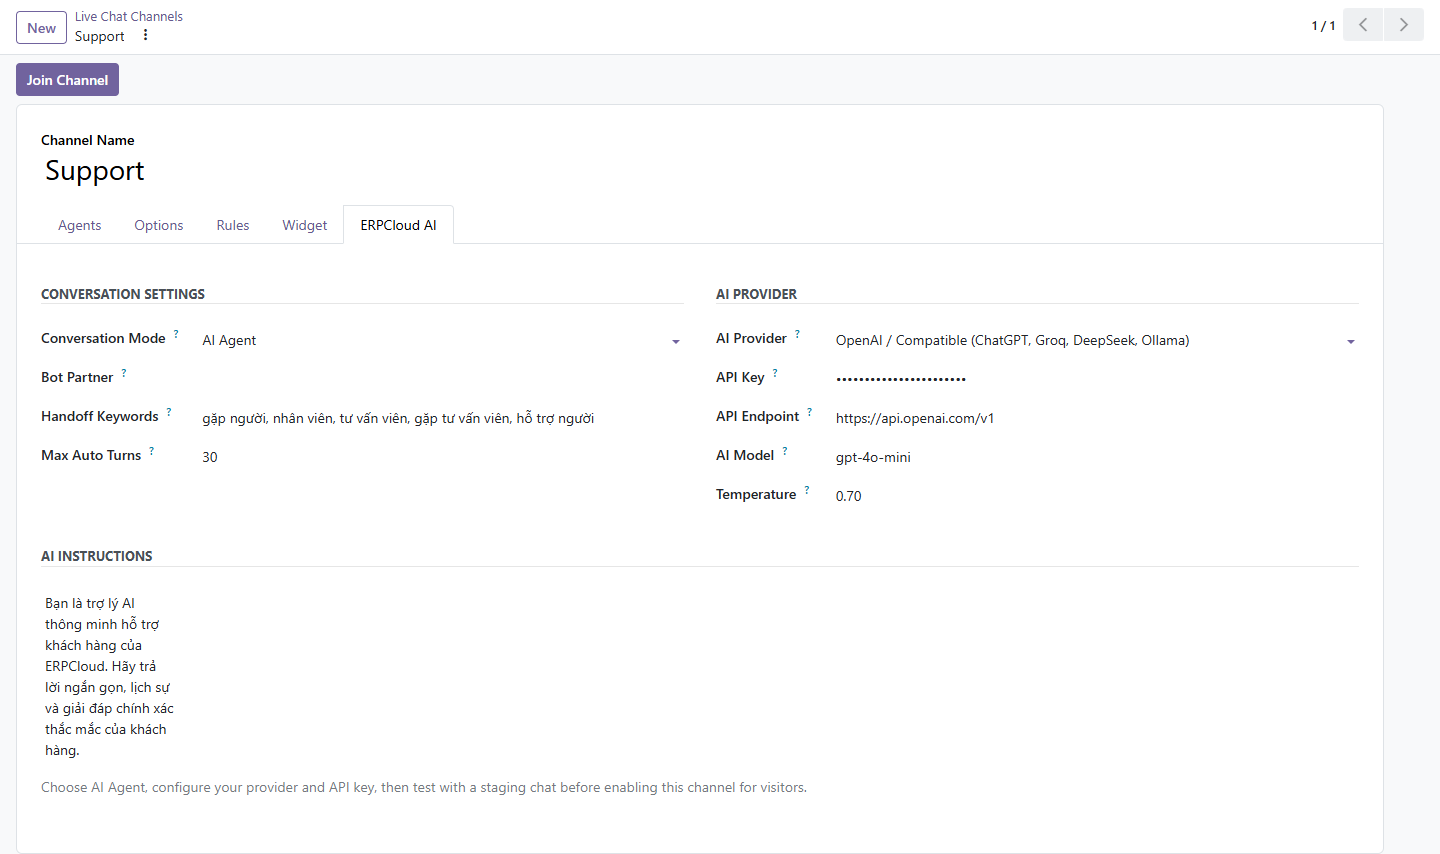
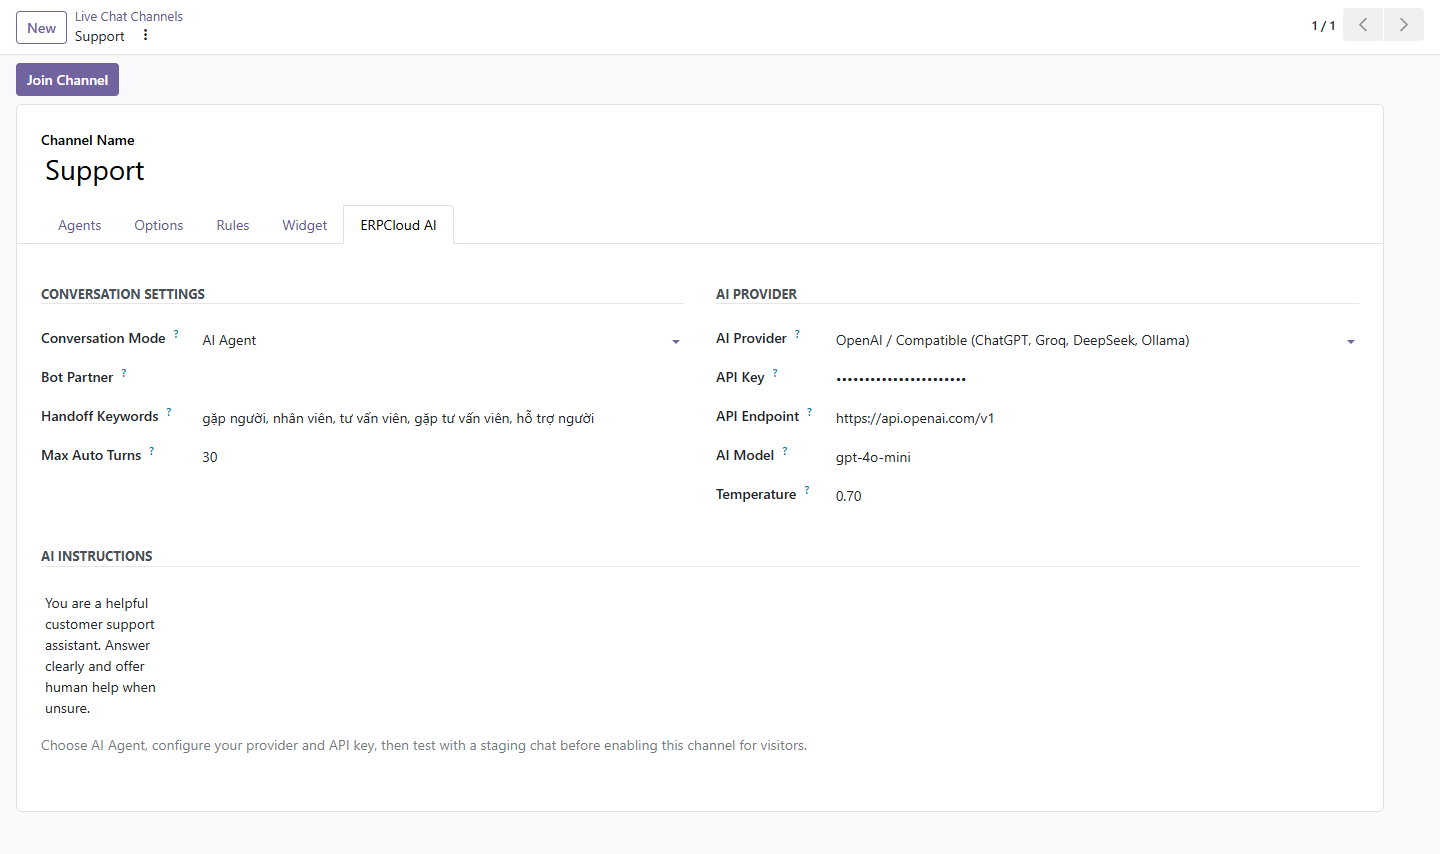
[20.0] Use neutral AI Livechat defaults and refresh QA media

Changed region(s): [[0.0312, 0.7002, 0.5625, 0.8829], [0.0312, 0.9133, 0.5625, 0.9438]]

diff --git a/erpcloud_ai_livechat/models/im_livechat_channel.py b/erpcloud_ai_livechat/models/im_livechat_channel.py
@@ -50,7 +50,7 @@ class ImLivechatChannel(models.Model):
 
     erpcloud_ai_system_prompt = fields.Text(
         string='System Prompt',
-        default='Bạn là trợ lý AI thông minh hỗ trợ khách hàng của ERPCloud. Hãy trả lời ngắn gọn, lịch sự và giải đáp chính xác thắc mắc của khách hàng.',
+        default='You are a helpful customer support assistant. Answer clearly and concisely using the information supplied by the organization. If unsure, say so and offer human help.',
         help='System instructions that guide the AI tone and answers.',
     )
 
@@ -62,7 +62,7 @@ class ImLivechatChannel(models.Model):
 
     erpcloud_handoff_keywords = fields.Char(
         string='Handoff Keywords',
-        default='gặp người, nhân viên, tư vấn viên, gặp tư vấn viên, hỗ trợ người',
+        default='human, agent, support, nhân viên, gặp người',
         help="Comma-separated keywords that trigger handoff to human.",
     )
 
